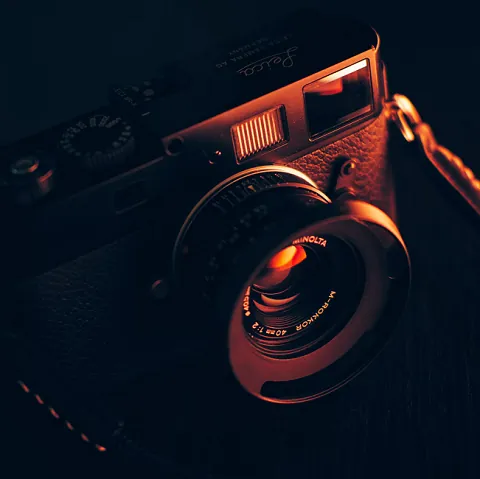
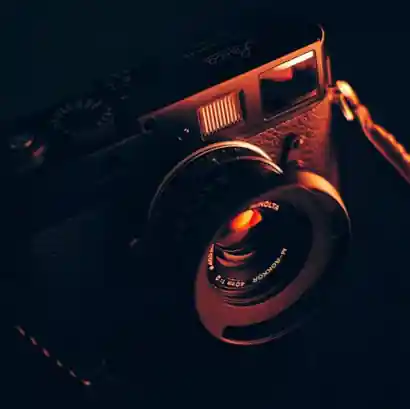
Modification de des image avec les bonne taille

diff --git a/index.html b/index.html
@@ -217,8 +217,8 @@
 			<article id="about">
 				<aside class="picture left">
 					<img
-						width="560"
-						height="560"
+						width="386"
+						height="386"
 						src="./assets/images/nina.webp"
 						alt="Photo de nina"
 						loading="lazy" />
@@ -420,8 +420,8 @@
 				</div>
 				<div class="picture right">
 					<img
-						width="415"
-						height="415"
+						width="374"
+						height="374"
 						src="./assets/images/camera.webp"
 						alt="Appareil photo"
 						loading="lazy" />

diff --git a/assets/style.css b/assets/style.css
@@ -54,8 +54,8 @@ body {
 .picture.left::before {
 	content: ' ';
 	background-color: #E5975F;
-	width: 560px;
-	height: 560px;
+	width: 374px;
+	height: 329px;
 	position: absolute;
 	bottom: 0;
 	left: 0;
@@ -208,8 +208,8 @@ body {
 .picture.right::before {
 	content: ' ';
 	background-color: #BEB45A;
-	width: 415px;
-	height: 415px;
+	width: 374px;
+	height: 329px;
 	position: absolute;
 	bottom: 0;
 	right: 0;
